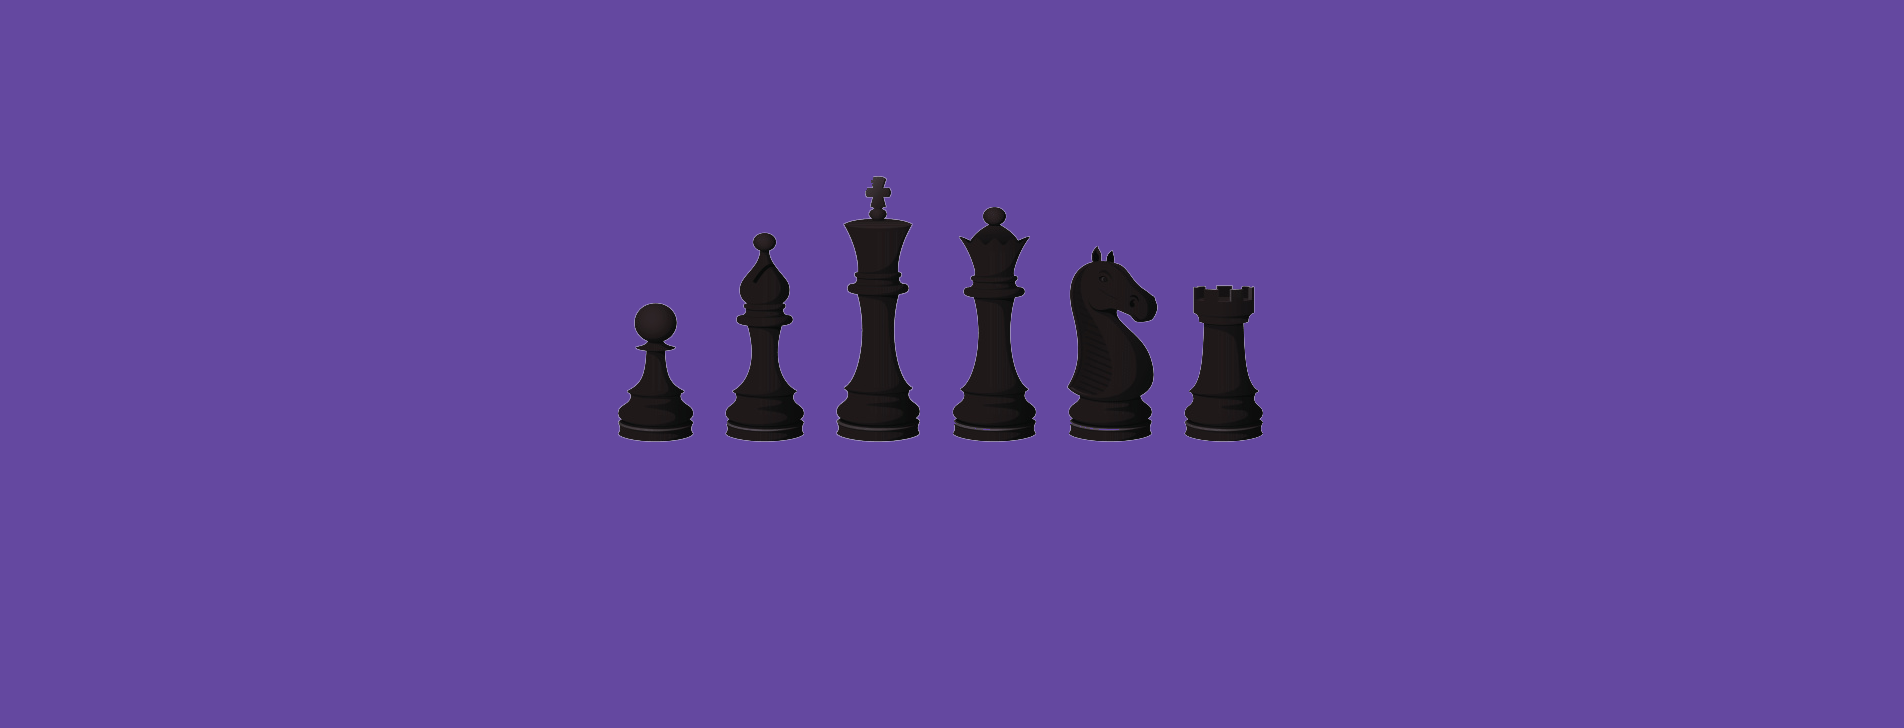
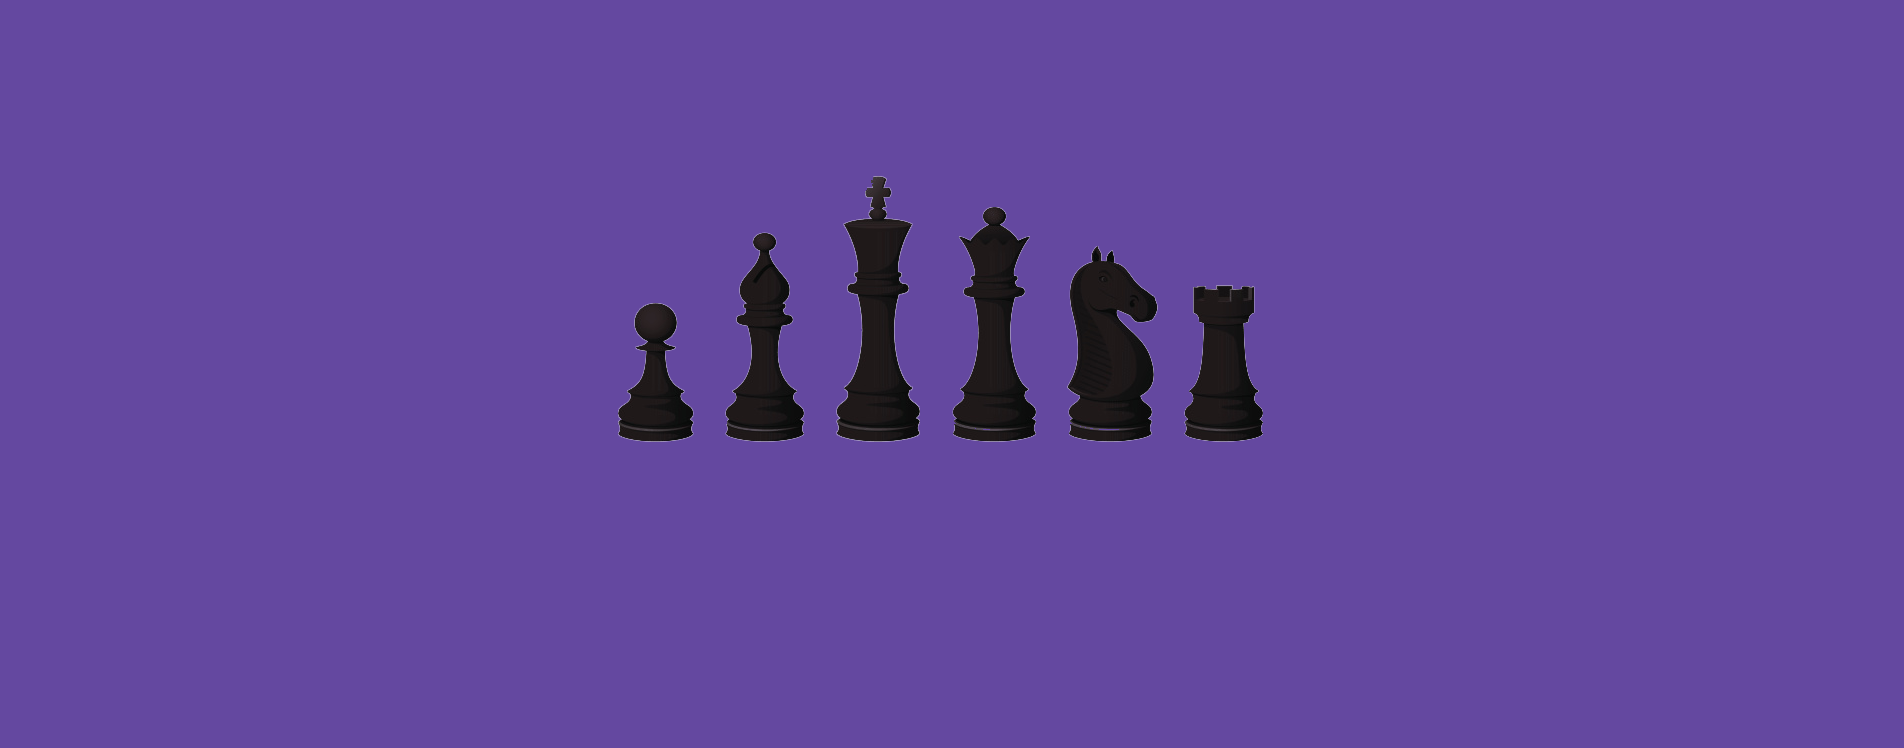
More styling

diff --git a/index.html b/index.html
@@ -39,7 +39,7 @@
             <li data-target="#myCarousel" data-slide-to="1"></li>
         </ol>
         <div class="carousel-inner" role="listbox">
-            <div class="item active"><img src="img/banner.png">
+            <div class="item active banner"><img src="img/banner.png">
                 <div class="carousel-caption" font-weight="bold">
                     <h1>Fundamentals of Game Theory</h1>
                     <h3>A senior project by Shreya Kumar</h3>

diff --git a/style.css b/style.css
@@ -15,6 +15,7 @@
 .navbar-inverse {
     margin-bottom: 0px !important;
 }
+
 .carousel-caption{
     top: 70%;
     transform: translateY(-50%);
@@ -22,6 +23,10 @@
     font-family: "Century Gothic", CenturyGothic, AppleGothic, sans-serif;
 }
 
+.banner{
+    height: auto !important;
+    width: auto\9 !important;
+}
 .container{
     font-family: "Century Gothic", CenturyGothic, AppleGothic, sans-serif;
 }
